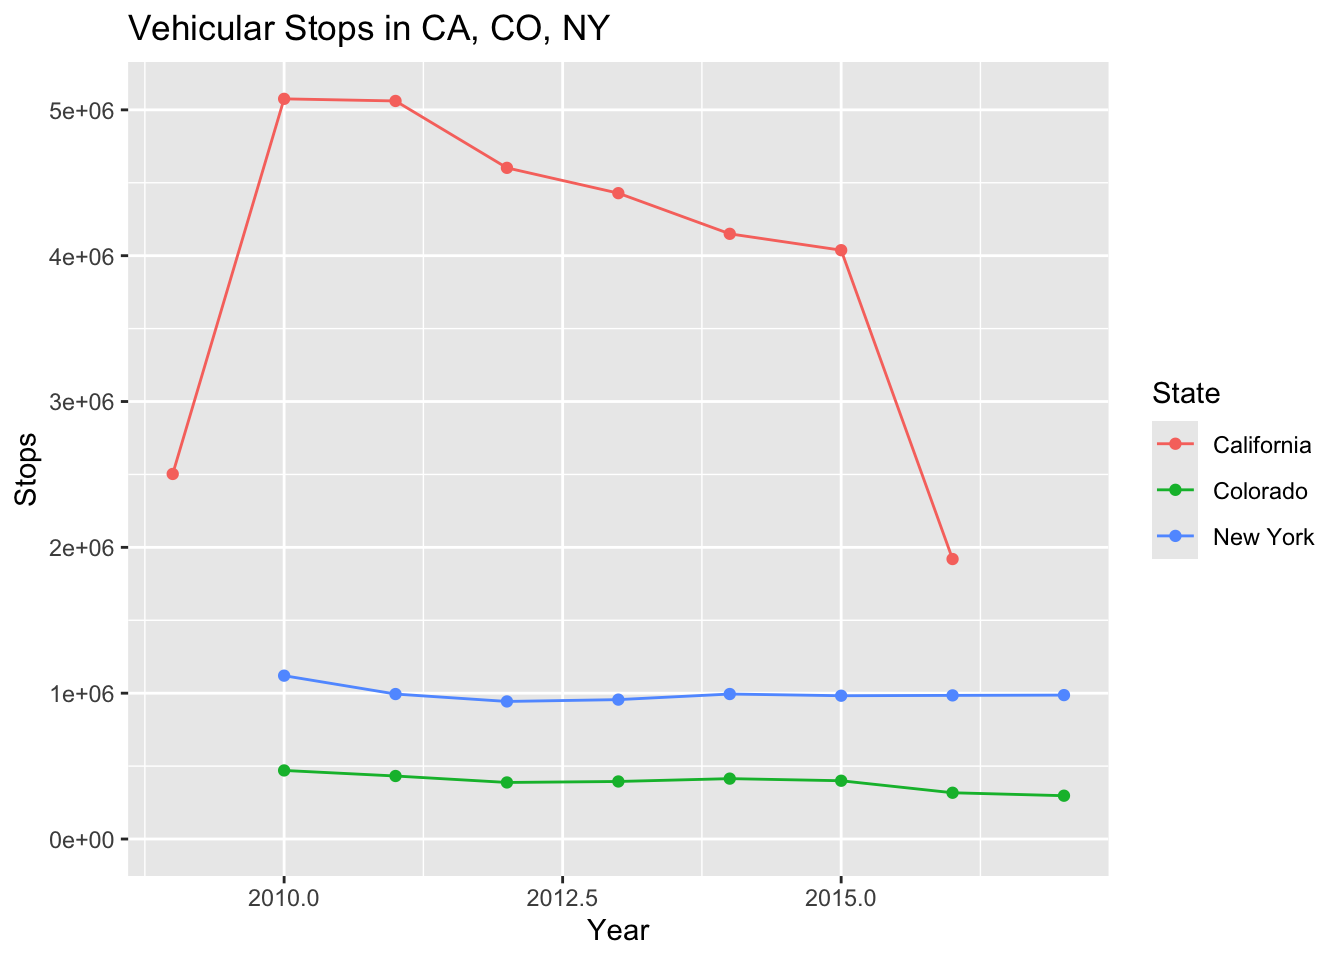
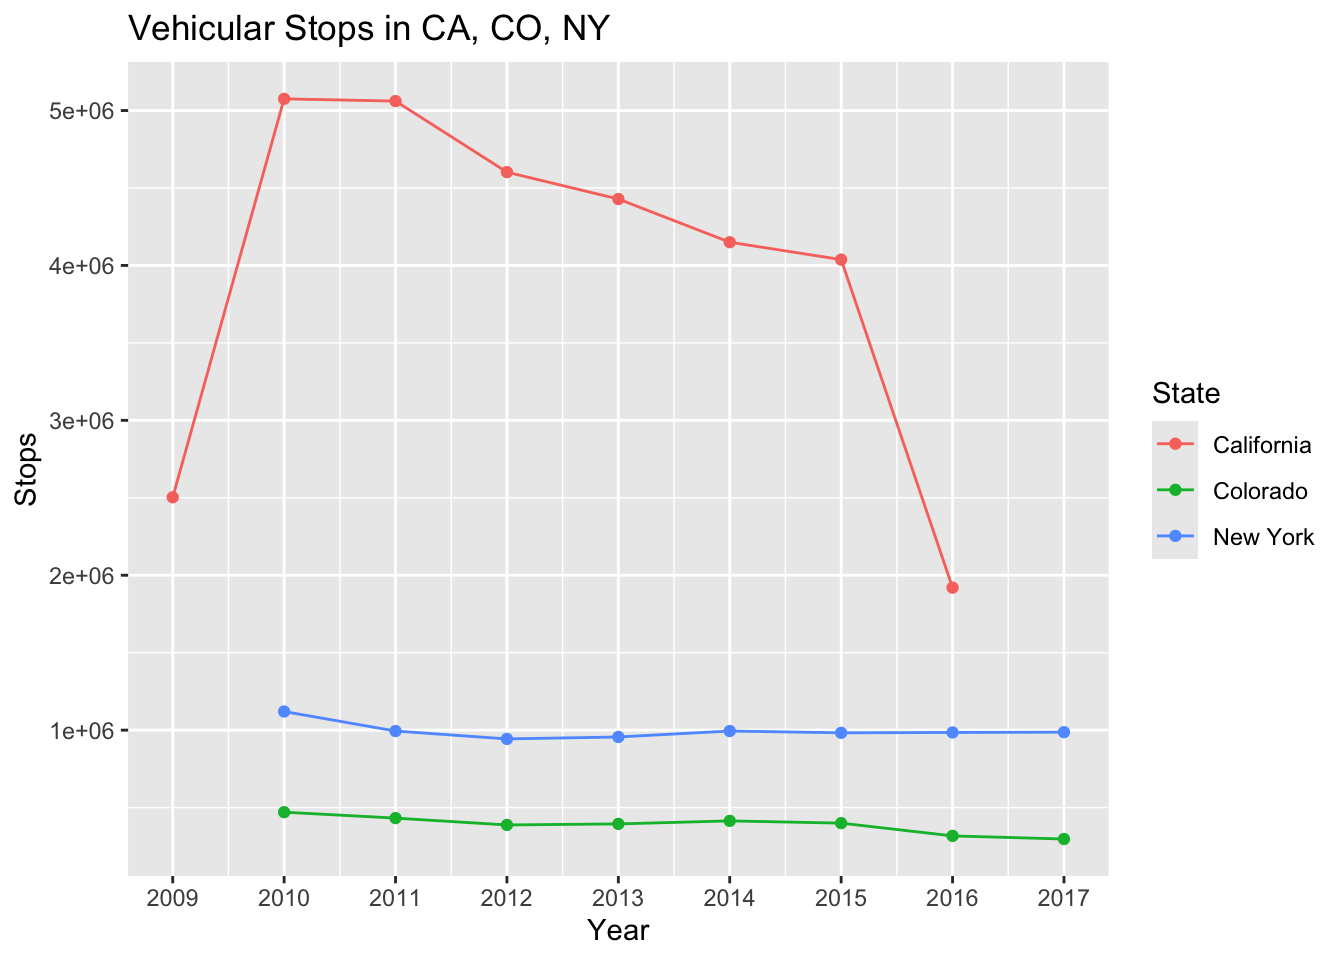
adding SQL commentary

diff --git a/docs/SQL.html b/docs/SQL.html
@@ -505,7 +505,7 @@ pre > code.sourceCode > span > a:first-child::before { text-decoration: underlin
 <span id="cb4-3"><a href="#cb4-3" aria-hidden="true" tabindex="-1"></a>    <span class="dt">YEAR</span>(<span class="dt">date</span>) <span class="kw">AS</span> <span class="dt">year</span>,</span>
 <span id="cb4-4"><a href="#cb4-4" aria-hidden="true" tabindex="-1"></a>    <span class="fu">COUNT</span>(<span class="op">*</span>) <span class="kw">AS</span> total_stops</span>
 <span id="cb4-5"><a href="#cb4-5" aria-hidden="true" tabindex="-1"></a><span class="kw">FROM</span> co_statewide_2020_04_01</span>
-<span id="cb4-6"><a href="#cb4-6" aria-hidden="true" tabindex="-1"></a><span class="kw">WHERE</span> <span class="kw">type</span> <span class="op">=</span> <span class="st">'vehicular'</span></span>
+<span id="cb4-6"><a href="#cb4-6" aria-hidden="true" tabindex="-1"></a><span class="kw">WHERE</span> <span class="kw">type</span> <span class="op">=</span> <span class="st">'vehicular'</span> <span class="kw">AND</span> <span class="dt">YEAR</span>(<span class="dt">date</span>) <span class="kw">IS</span> <span class="kw">NOT</span> <span class="kw">NULL</span> <span class="kw">AND</span> <span class="dt">YEAR</span>(<span class="dt">date</span>)<span class="op">&gt;</span><span class="dv">2008</span></span>
 <span id="cb4-7"><a href="#cb4-7" aria-hidden="true" tabindex="-1"></a><span class="kw">GROUP</span> <span class="kw">BY</span> state, <span class="dt">YEAR</span>(<span class="dt">date</span>)</span>
 <span id="cb4-8"><a href="#cb4-8" aria-hidden="true" tabindex="-1"></a></span>
 <span id="cb4-9"><a href="#cb4-9" aria-hidden="true" tabindex="-1"></a><span class="kw">UNION</span> <span class="kw">ALL</span></span>
@@ -536,12 +536,14 @@ pre > code.sourceCode > span > a:first-child::before { text-decoration: underlin
 <span id="cb5-2"><a href="#cb5-2" aria-hidden="true" tabindex="-1"></a>       <span class="fu">aes</span>(<span class="at">x =</span> year, <span class="at">y =</span> total_stops, <span class="at">color =</span> state)) <span class="sc">+</span></span>
 <span id="cb5-3"><a href="#cb5-3" aria-hidden="true" tabindex="-1"></a>  <span class="fu">geom_line</span>() <span class="sc">+</span></span>
 <span id="cb5-4"><a href="#cb5-4" aria-hidden="true" tabindex="-1"></a>  <span class="fu">geom_point</span>() <span class="sc">+</span></span>
-<span id="cb5-5"><a href="#cb5-5" aria-hidden="true" tabindex="-1"></a>  <span class="fu">labs</span>(</span>
-<span id="cb5-6"><a href="#cb5-6" aria-hidden="true" tabindex="-1"></a>    <span class="at">title =</span> <span class="st">"Vehicular Stops in CA, CO, NY"</span>,</span>
-<span id="cb5-7"><a href="#cb5-7" aria-hidden="true" tabindex="-1"></a>    <span class="at">x =</span> <span class="st">"Year"</span>,</span>
-<span id="cb5-8"><a href="#cb5-8" aria-hidden="true" tabindex="-1"></a>    <span class="at">y =</span> <span class="st">"Stops"</span>,</span>
-<span id="cb5-9"><a href="#cb5-9" aria-hidden="true" tabindex="-1"></a>    <span class="at">color =</span> <span class="st">"State"</span></span>
-<span id="cb5-10"><a href="#cb5-10" aria-hidden="true" tabindex="-1"></a>  )</span></code></pre></div><button title="Copy to Clipboard" class="code-copy-button"><i class="bi"></i></button></div>
+<span id="cb5-5"><a href="#cb5-5" aria-hidden="true" tabindex="-1"></a>  <span class="fu">scale_x_continuous</span>(<span class="at">breaks =</span> <span class="dv">2009</span><span class="sc">:</span><span class="dv">2020</span>) <span class="sc">+</span></span>
+<span id="cb5-6"><a href="#cb5-6" aria-hidden="true" tabindex="-1"></a>  <span class="fu">labs</span>(</span>
+<span id="cb5-7"><a href="#cb5-7" aria-hidden="true" tabindex="-1"></a>    <span class="at">title =</span> <span class="st">"Vehicular Stops in CA, CO, NY"</span>,</span>
+<span id="cb5-8"><a href="#cb5-8" aria-hidden="true" tabindex="-1"></a>    <span class="at">x =</span> <span class="st">"Year"</span>,</span>
+<span id="cb5-9"><a href="#cb5-9" aria-hidden="true" tabindex="-1"></a>    <span class="at">y =</span> <span class="st">"Stops"</span>,</span>
+<span id="cb5-10"><a href="#cb5-10" aria-hidden="true" tabindex="-1"></a>    <span class="at">color =</span> <span class="st">"State"</span></span>
+<span id="cb5-11"><a href="#cb5-11" aria-hidden="true" tabindex="-1"></a>    </span>
+<span id="cb5-12"><a href="#cb5-12" aria-hidden="true" tabindex="-1"></a>  )</span></code></pre></div><button title="Copy to Clipboard" class="code-copy-button"><i class="bi"></i></button></div>
 <div class="cell-output-display">
 <div>
 <figure class="figure">
@@ -550,7 +552,7 @@ pre > code.sourceCode > span > a:first-child::before { text-decoration: underlin
 </div>
 </div>
 </div>
-<p>So, overall, California has more vehicular stops than Colorado and New York, and also has some more variation from year to year. Importantly, this is skewed upwards in the case of California because it has a much larger population!</p>
+<p>So, overall, California has more vehicular stops than Colorado and New York, and also has some more variation from year to year. Importantly, this is skewed upwards in the case of California because it has a much larger population! It is also likely true that for California, the years 2009 and 2016 have partial data, given their sudden drops from the rest of the data.</p>
 <p>Next, now that I am more familiar with how these tables are organized and the specific variables available, I am interested in investigating California more closely to observe some more trends. I am interested how gender affects citation rates, as in how often do men get a citation when they are pulled over compared to women?</p>
 <div class="cell" data-output.var="ca_sex_citations">
 <div class="code-copy-outer-scaffold"><div class="sourceCode cell-code" id="cb6"><pre class="sourceCode sql code-with-copy"><code class="sourceCode sql"><span id="cb6-1"><a href="#cb6-1" aria-hidden="true" tabindex="-1"></a></span>
@@ -587,6 +589,7 @@ pre > code.sourceCode > span > a:first-child::before { text-decoration: underlin
 </div>
 </div>
 <p>From the above analysis, it is seen that males get citations when they are stopped more often than females. There are likely many variables going into this rate difference. This could be due to men being more aggressive or impulsive drivers. I was interested and did some quick research on this, and it has been found that younger drivers, those with powerful cars, and those with “macho” personalities are more likely to drive agressively (Krahé &amp; Fenske, 2001). This lines up to my calculation of California citation rates. Interesting!</p>
+<p>Notably, these citation rates seem really low, so this is likely a variable that is not often included in the data set, but from the sample we have, the relative proportion of citations given to men and women are likely accurate.</p>
 <p>From the analyses today, we can see that California has higher vehicular stops over time than Colorado and New York, and that males have higher citation rates than females in California. There are many, many variables that go into these kinds of analyses. These variables include population size, in the case of the first analysis, differences in driving behavior across states, and likely more social-related perception variables in the case of the difference in citation rates between men and women.</p>
 <div class="cell">
 <div class="code-copy-outer-scaffold"><div class="sourceCode cell-code" id="cb8"><pre class="sourceCode r code-with-copy"><code class="sourceCode r"><span id="cb8-1"><a href="#cb8-1" aria-hidden="true" tabindex="-1"></a><span class="fu">dbDisconnect</span>(con_traffic, <span class="at">shutdown =</span> <span class="cn">TRUE</span>)</span></code></pre></div><button title="Copy to Clipboard" class="code-copy-button"><i class="bi"></i></button></div>
